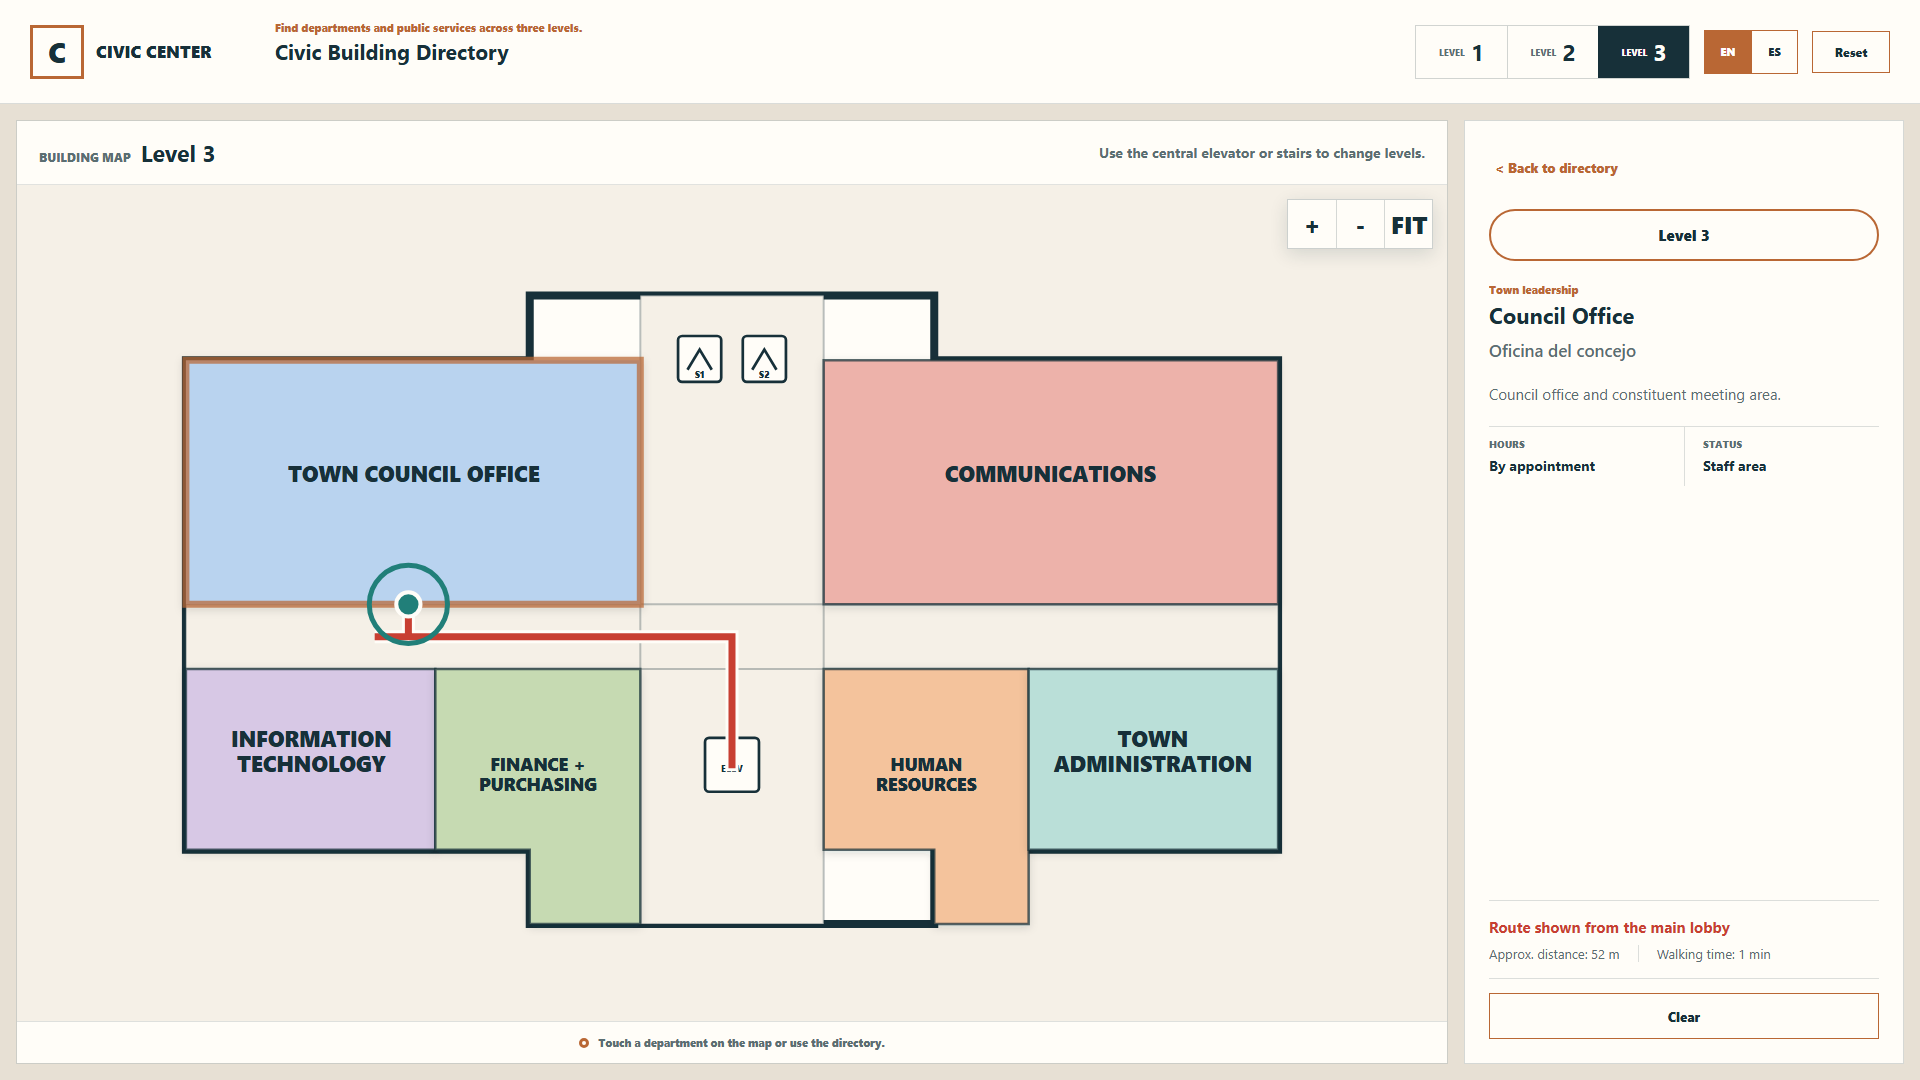
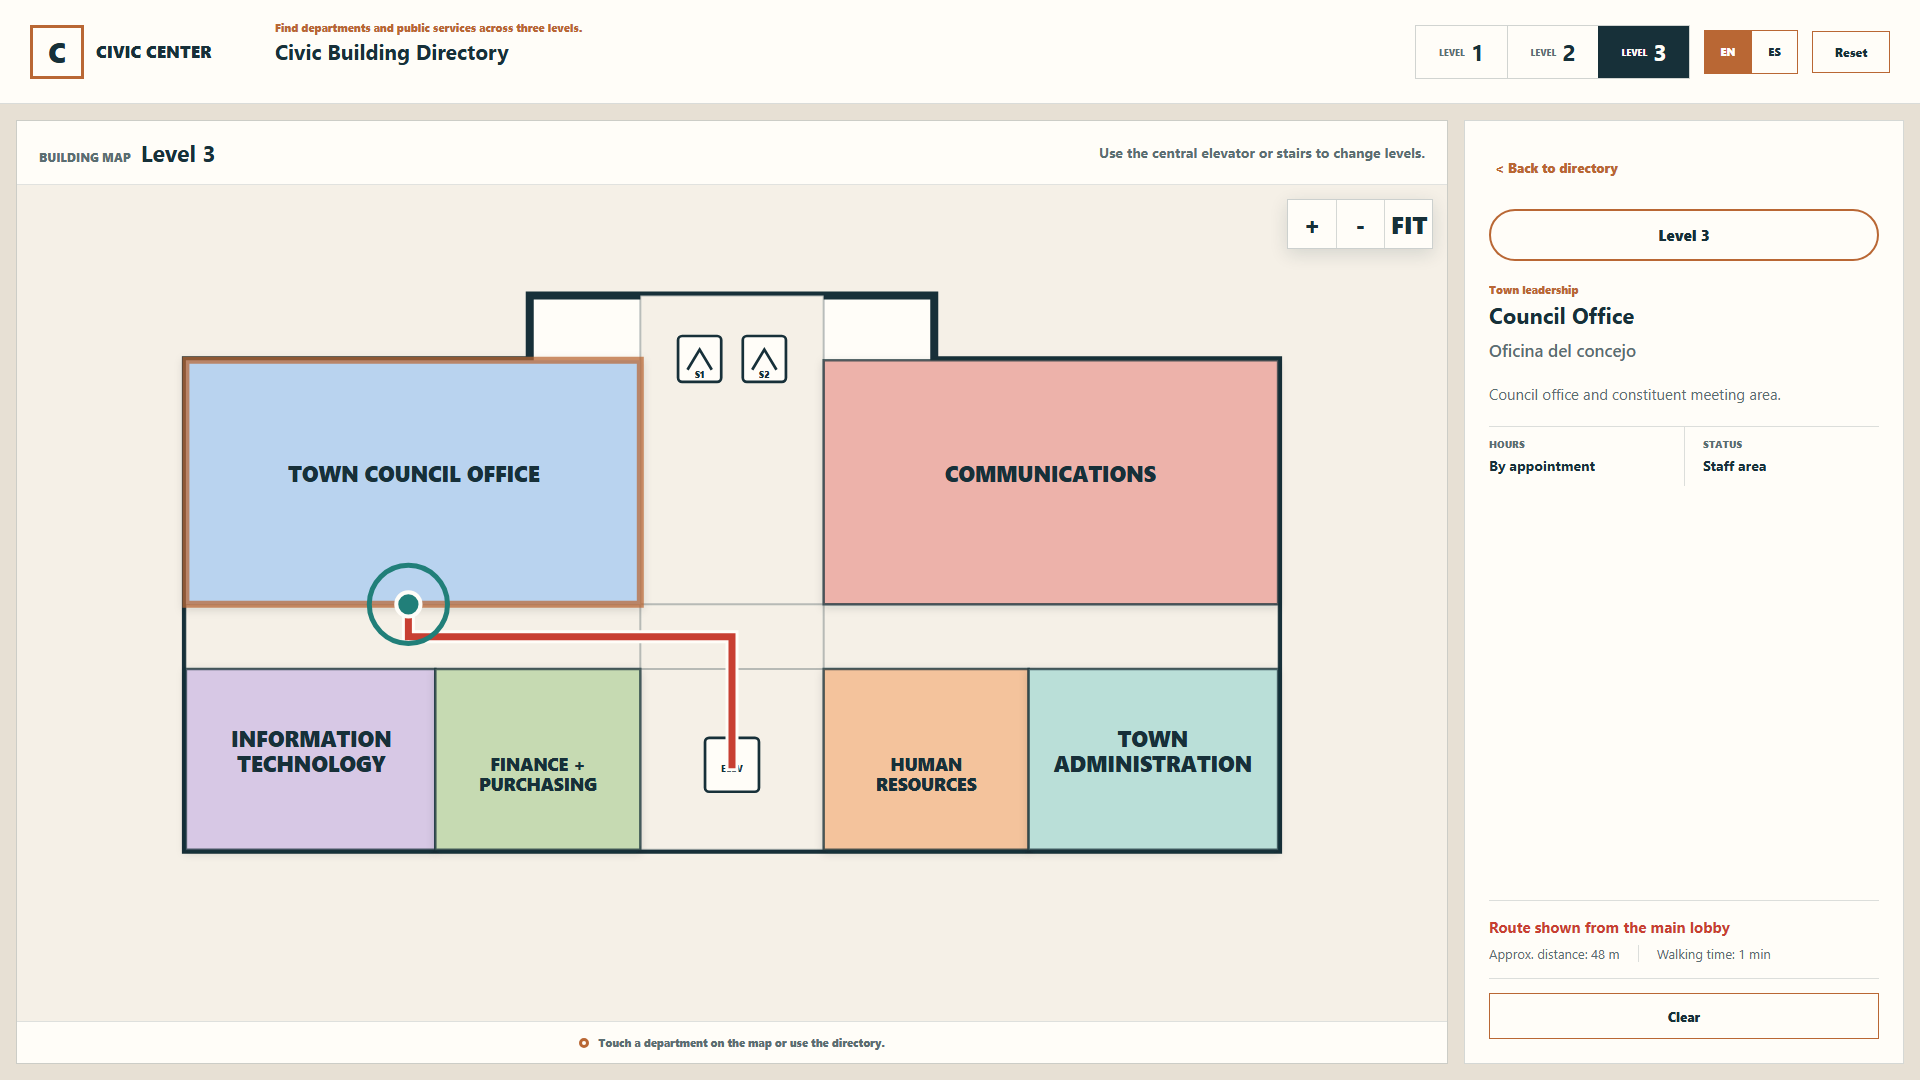
Fix civic route termination and refresh reviews

Changed region(s): [[0.25, 0.7639, 0.5625, 0.8861]]

diff --git a/examples/civic-building-directory/overlay/preview/behavior.spec.ts b/examples/civic-building-directory/overlay/preview/behavior.spec.ts
@@ -13,6 +13,48 @@ const openScenario = async (page: Page, scenario = 'app-default'): Promise<void>
 	await expect(page.locator('[data-preview-id="civic-building-directory-root"]')).toBeVisible();
 };
 
+const hasImmediateAxisReversal = (points: number[][]): boolean => {
+	for (let index = 2; index < points.length; index += 1) {
+		const [beforeX, beforeY] = points[index - 2];
+		const [previousX, previousY] = points[index - 1];
+		const [currentX, currentY] = points[index];
+		const reversesHorizontally: boolean = beforeY === previousY && previousY === currentY
+			&& Math.sign(previousX - beforeX) * Math.sign(currentX - previousX) < 0;
+		const reversesVertically: boolean = beforeX === previousX && previousX === currentX
+			&& Math.sign(previousY - beforeY) * Math.sign(currentY - previousY) < 0;
+
+		if (reversesHorizontally || reversesVertically) return true;
+	}
+
+	return false;
+};
+
+const routePoints = async (page: Page, floor: string): Promise<number[][]> => {
+	const route = page.locator(`polyline.wb-civic-route-line[data-route="${floor}"]`);
+	await expect(route).toHaveCount(1);
+
+	return (await route.getAttribute('points'))
+		?.trim()
+		.split(/\s+/)
+		.map((point: string): number[] => point.split(',').map(Number)) ?? [];
+};
+
+const expectCleanRoute = async (page: Page, floor: string): Promise<void> => {
+	const points: number[][] = await routePoints(page, floor);
+
+	expect(points.length).toBeGreaterThan(1);
+	for (let index = 1; index < points.length; index += 1) {
+		expect(points[index][0] === points[index - 1][0] || points[index][1] === points[index - 1][1]).toBe(true);
+	}
+	expect(hasImmediateAxisReversal(points)).toBe(false);
+
+	const marker = page.locator('#wb-civic-directory-guidance .wb-civic-target-pulse');
+	await expect(marker).toHaveCount(1);
+	const last: number[] = points[points.length - 1];
+	expect(Number(await marker.getAttribute('cx'))).toBe(last[0]);
+	expect(Number(await marker.getAttribute('cy'))).toBe(last[1]);
+};
+
 test('all three semantic floor maps are available and floor controls switch without changing selection', async ({ page }): Promise<void> => {
 	await openScenario(page);
 	const root = page.locator('[data-preview-id="civic-building-directory-root"]');
@@ -47,17 +89,29 @@ test('routes use orthogonal segments and terminate at the pulsing entrance marke
 	await openScenario(page);
 	await page.getByRole('button', { name: /Utility Billing/ }).click();
 	const route = page.locator('polyline.wb-civic-route-line[data-route="1"]');
-	const points = (await route.getAttribute('points'))?.split(/\s+/).map((point: string): number[] => point.split(',').map(Number)) ?? [];
-
-	expect(points.length).toBeGreaterThan(1);
-	for (let index = 1; index < points.length; index += 1) {
-		expect(points[index][0] === points[index - 1][0] || points[index][1] === points[index - 1][1]).toBe(true);
-	}
-	const marker = page.locator('#wb-civic-directory-guidance .wb-civic-target-pulse');
-	const last = points[points.length - 1];
-	expect(Number(await marker.getAttribute('cx'))).toBe(last[0]);
-	expect(Number(await marker.getAttribute('cy'))).toBe(last[1]);
+	await expectCleanRoute(page, '1');
 	expect(await route.evaluate((element: SVGPolylineElement): string => getComputedStyle(element).strokeLinejoin)).toBe('miter');
+});
+
+test('every routed destination renders a clean path that ends at its authored entrance', async ({ page }): Promise<void> => {
+	await openScenario(page);
+	const destinations = await page.locator('[data-destination-id]').evaluateAll((buttons: Element[]): Array<{ floor: string; id: string }> => (
+		buttons.map((button: Element): { floor: string; id: string } => ({
+			floor: button.querySelector('small')?.textContent?.trim() ?? '',
+			id: button.getAttribute('data-destination-id') ?? ''
+		}))
+	));
+	const routedDestinations = destinations.filter(({ id }: { id: string }): boolean => id !== 'main-lobby');
+
+	expect(routedDestinations.length).toBeGreaterThan(0);
+	for (const destination of routedDestinations) {
+		await page.getByRole('button', { name: 'Reset' }).click();
+		await page.locator(`[data-destination-id="${destination.id}"]`).click();
+		if (destination.floor !== '1') {
+			await page.getByRole('button', { name: `View Level ${destination.floor}` }).click();
+		}
+		await expectCleanRoute(page, destination.floor);
+	}
 });
 
 test('every visible map label stays inside its room and clear of amenities', async ({ page }): Promise<void> => {
@@ -112,6 +166,7 @@ test('cross-floor selection does not move the visitor and requires an explicit f
 	await expect(root).toHaveAttribute('data-active-floor', '3');
 	await expect(page.locator('polyline[data-route="3"]')).toHaveCount(2);
 	await expect(page.locator('#wb-civic-directory-guidance .wb-civic-target-pulse')).toHaveCount(1);
+	await expectCleanRoute(page, '3');
 });
 
 test('selection never changes a manually zoomed viewport', async ({ page }): Promise<void> => {

diff --git a/examples/civic-building-directory/overlay/src/components/wb-app/wb-app.tsx b/examples/civic-building-directory/overlay/src/components/wb-app/wb-app.tsx
@@ -152,6 +152,24 @@ const normalizeSearch = (value: string): string => value
 
 const clamp = (value: number, minimum: number, maximum: number): number => Math.min(maximum, Math.max(minimum, value));
 
+const simplifyRoutePoints = (points: WayfindingRoutePoint[]): WayfindingRoutePoint[] => {
+	const simplified: WayfindingRoutePoint[] = [];
+
+	for (const point of points) {
+		if (simplified.length >= 2) {
+			const beforePrevious: WayfindingRoutePoint = simplified[simplified.length - 2];
+			const previous: WayfindingRoutePoint = simplified[simplified.length - 1];
+			const sharesHorizontalAxis: boolean = beforePrevious.y === previous.y && previous.y === point.y;
+			const sharesVerticalAxis: boolean = beforePrevious.x === previous.x && previous.x === point.x;
+
+			if (sharesHorizontalAxis || sharesVerticalAxis) simplified.pop();
+		}
+		simplified.push(point);
+	}
+
+	return simplified;
+};
+
 export default (props: { hostElement: HTMLDivElement }): JSX.Element => {
 	const dataSources: Accessor<DataSources> = useDataSources();
 	const settings: Accessor<Settings> = useSettings();
@@ -379,7 +397,9 @@ export default (props: { hostElement: HTMLDivElement }): JSX.Element => {
 		group.setAttribute('pointer-events', 'none');
 
 		if (settings().guidanceMode === 'route') {
-			const routePoints: WayfindingRoutePoint[] = (routeResult()?.path ?? []).filter((point: WayfindingRoutePoint): boolean => point.levelId === activeFloor());
+			const routePoints: WayfindingRoutePoint[] = simplifyRoutePoints(
+				(routeResult()?.path ?? []).filter((point: WayfindingRoutePoint): boolean => point.levelId === activeFloor())
+			);
 
 			if (routePoints.length >= 2) {
 				const points: string = routePoints.map((point: WayfindingRoutePoint): string => `${point.x},${point.y}`).join(' ');
@@ -397,7 +417,7 @@ export default (props: { hostElement: HTMLDivElement }): JSX.Element => {
 
 		if (selected.floor === activeFloor()) {
 			const activeRoutePoints: WayfindingRoutePoint[] = settings().guidanceMode === 'route'
-				? (routeResult()?.path ?? []).filter((point: WayfindingRoutePoint): boolean => point.levelId === activeFloor())
+				? simplifyRoutePoints((routeResult()?.path ?? []).filter((point: WayfindingRoutePoint): boolean => point.levelId === activeFloor()))
 				: [];
 			const routeEntrance: WayfindingRoutePoint | undefined = activeRoutePoints[activeRoutePoints.length - 1];
 			const center: MapPoint | undefined = routeEntrance ?? destinationCenter(selected.id);
